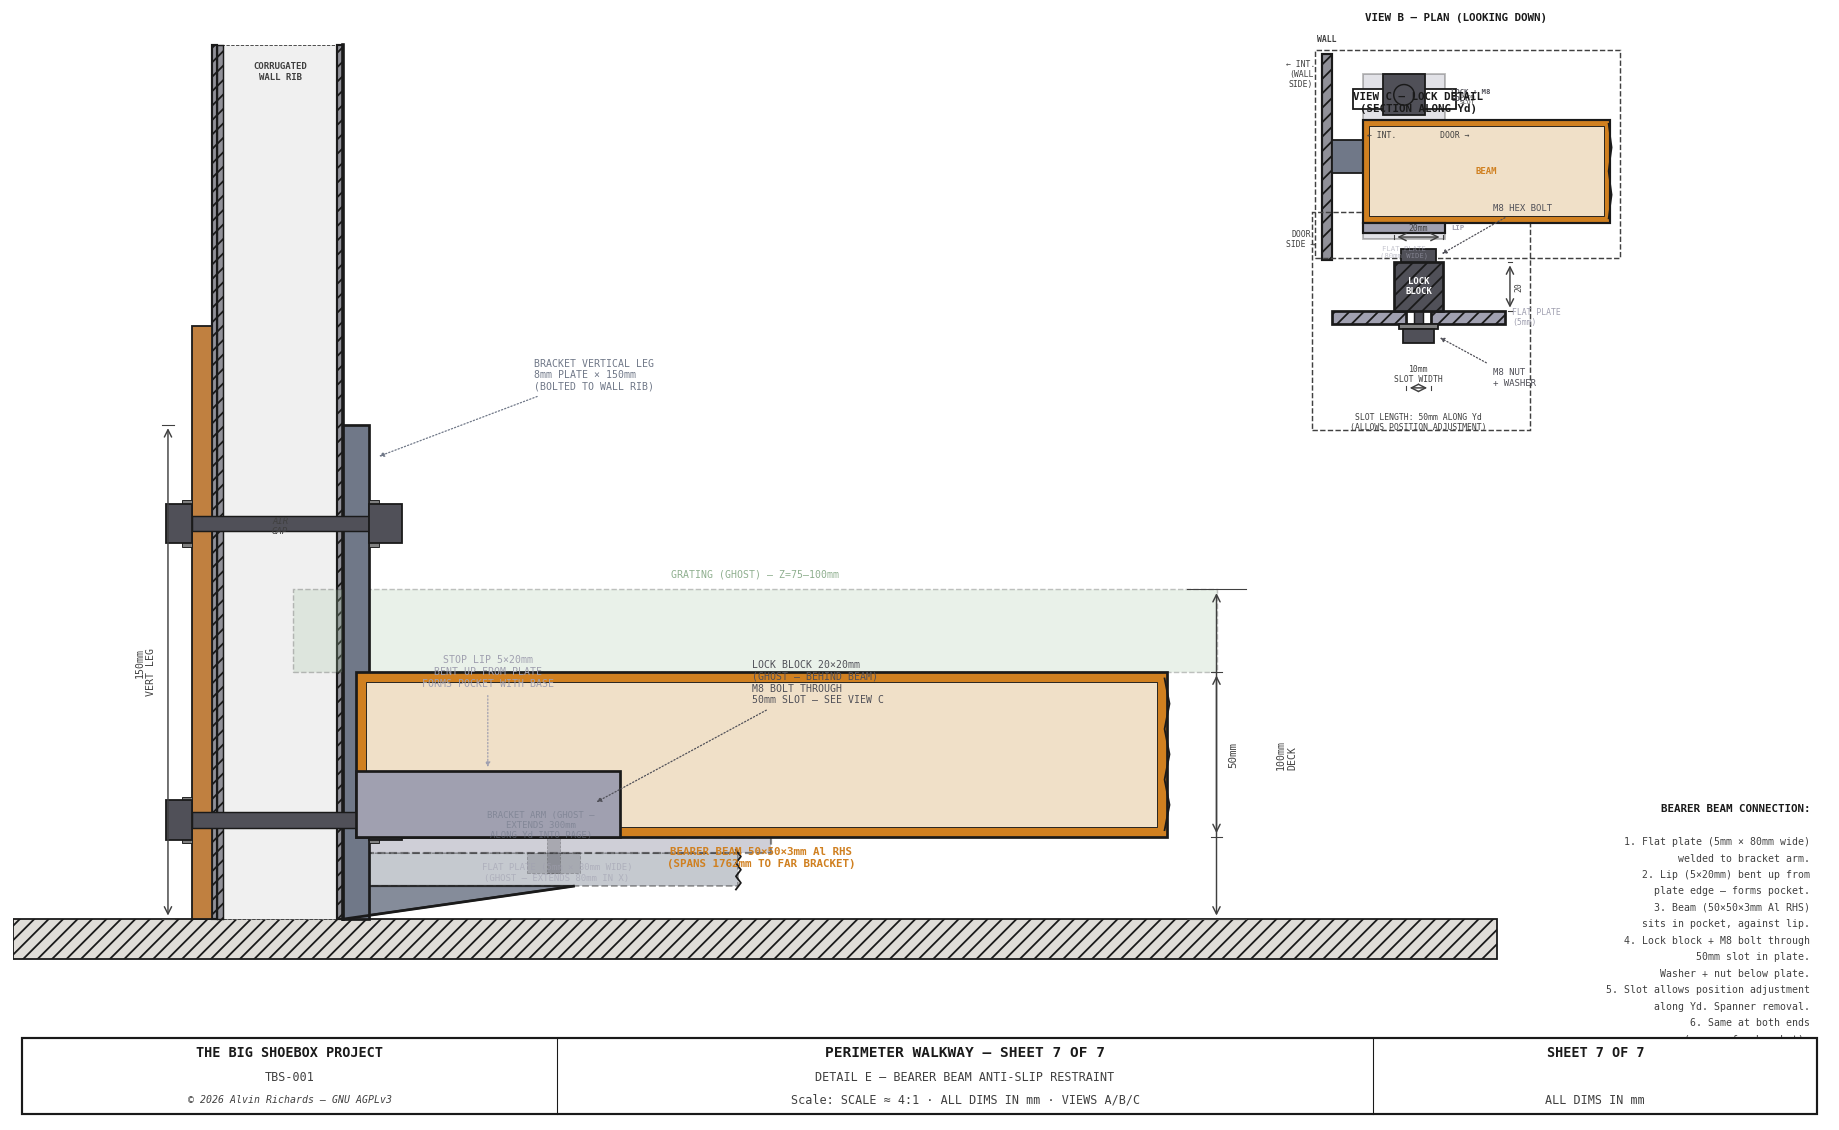
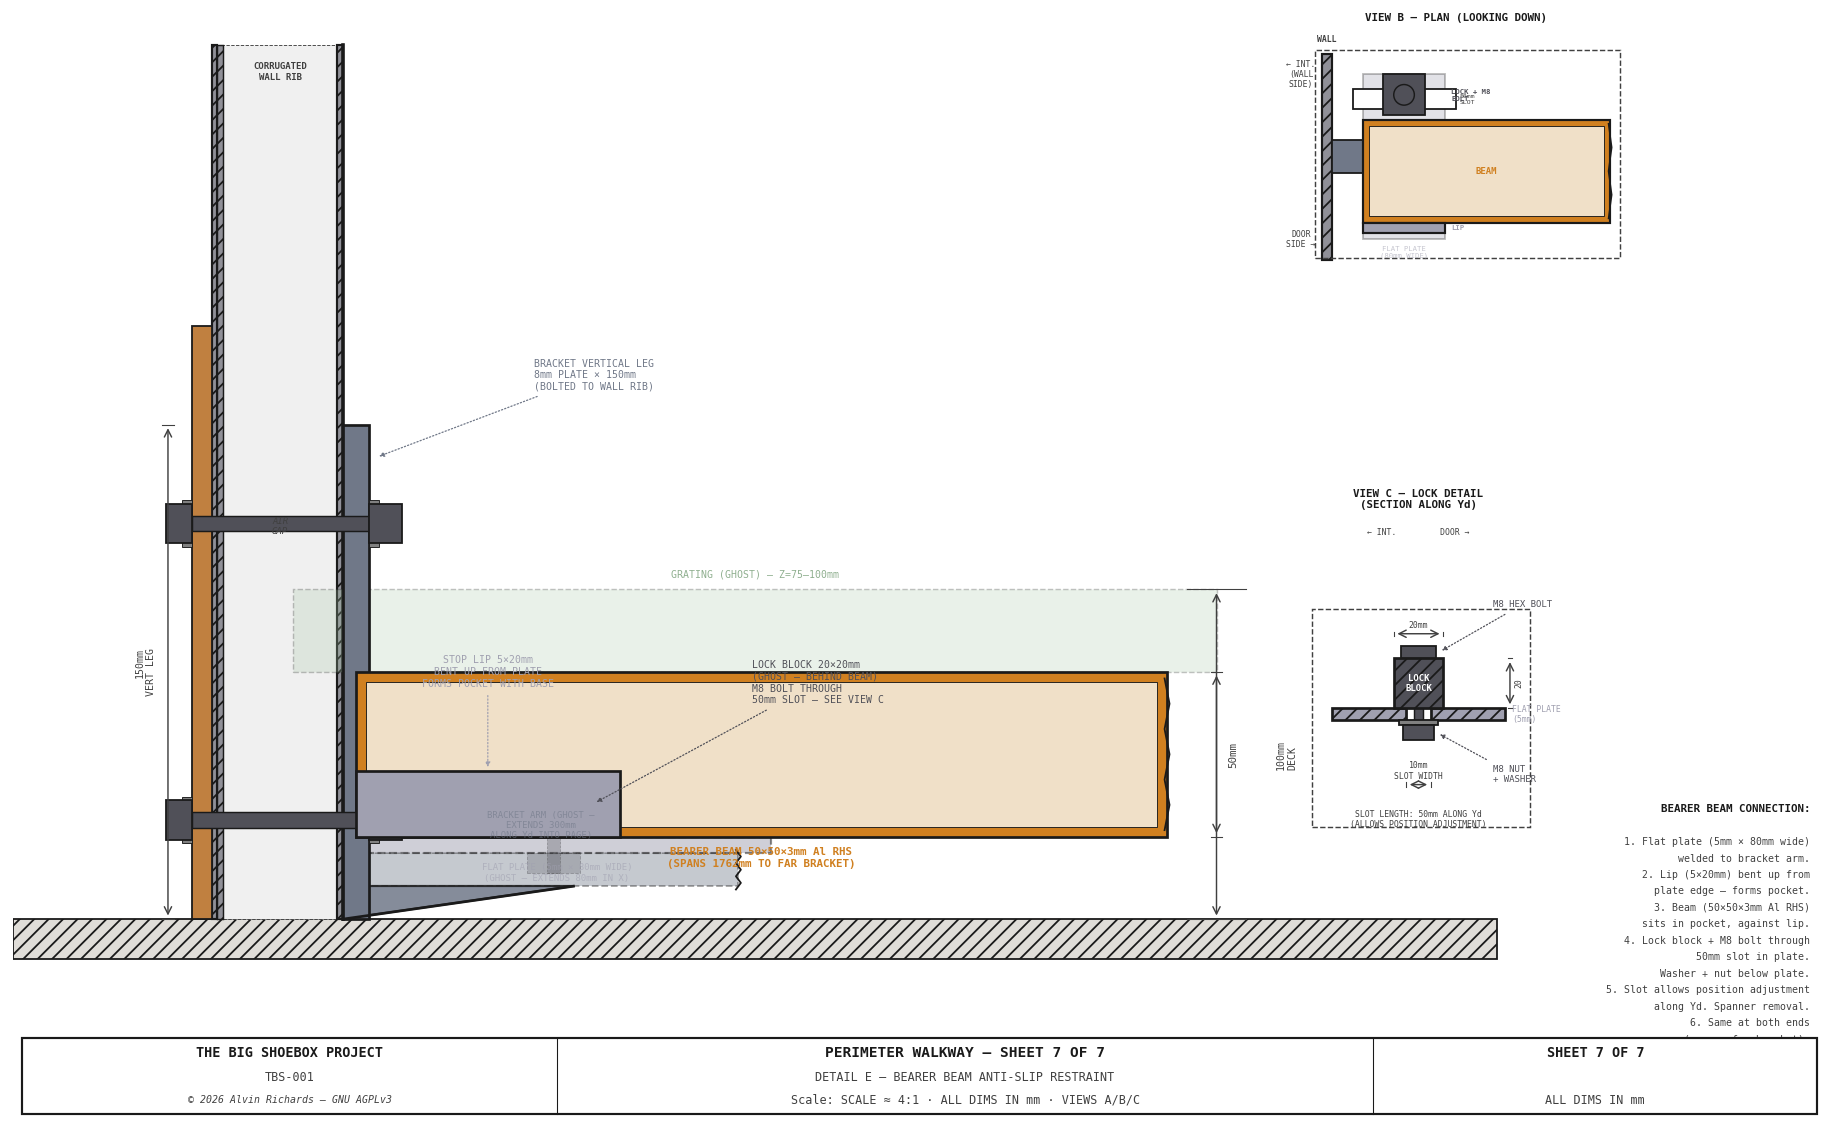
Sheet 7: lower View C by 50%

diff --git a/generate_walkway_diagram.py b/generate_walkway_diagram.py
@@ -2511,8 +2511,9 @@ def sheet7():
     # bolt through slot, washer + nut underneath.
     # ══════════════════════════════════════════════════════════════════════════
     VC_OX = BEAM_SHOW + 50
-    # Position just below View B (plan view border bottom)
-    VC_OY = PV_OY + pv_border_bot * PV_S / S - 20
+    # Position below View B with gap
+    vc_top = PV_OY + pv_border_bot * PV_S / S - 20
+    VC_OY = vc_top - (vc_top - Z_LO) * 0.5
     VC_S  = 3.0   # larger scale for detail clarity
     def cx(mm): return sx(VC_OX + mm * VC_S / S)
     def cy(mm): return sy(VC_OY + mm * VC_S / S)
